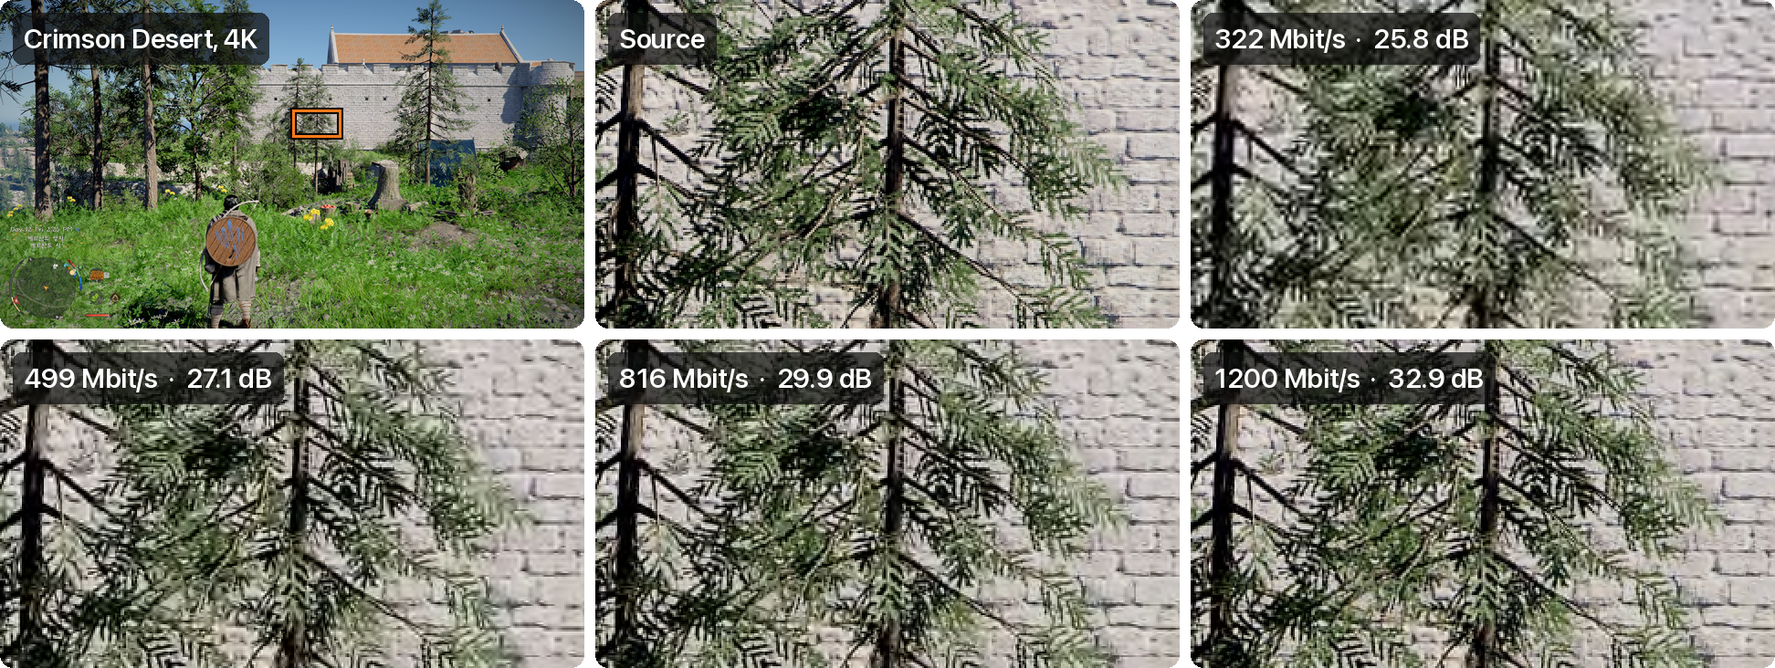
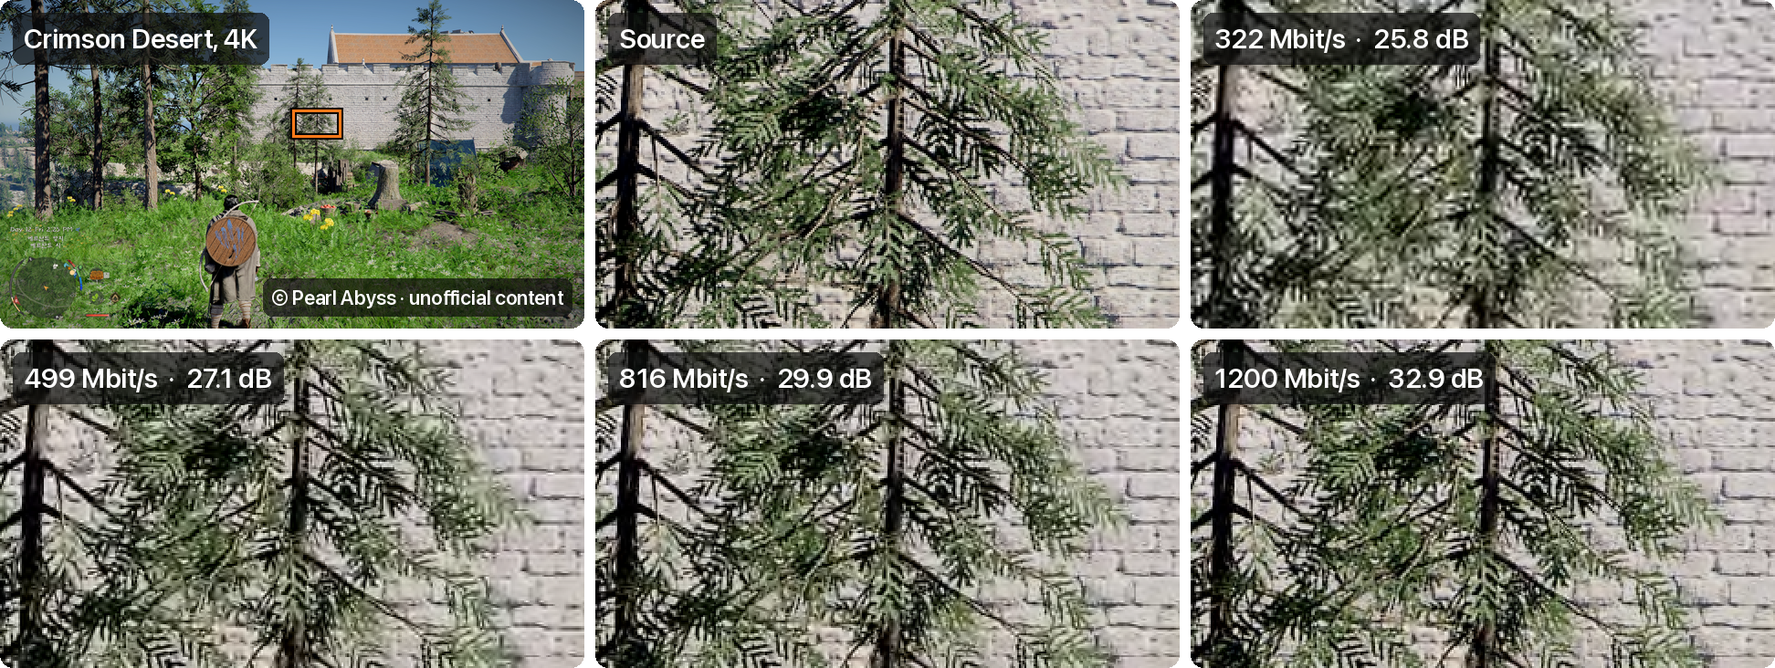
docs: picture quality, from review
The reviewer found no wrong numbers; these make the text as firm as its
data and the script safer to run:

- The HEVC comparison says luma, with the chroma gap beside it, that the
  key frame was encoded outside VideoToolbox's real-time mode, and on
  which Mac, system and day; the README says emberwave's encoder made the
  frames, and words what the panels show more carefully.
- The script encodes on the CPU by default, which makes the same bytes on
  every machine (--gpu for the GPU), takes only 8-bit 4:2:0 and full
  range as the Y4M header says, refuses pictures smaller than its region
  or of an odd size, fits a full picture that is not 16:9, and says in
  --help what it needs. The numbers are unchanged.
- The picture carries its credit in a corner, and LICENSE excludes it.
- D49 states what export-ignore does and does not do: GitHub's source
  archives of releases leave the picture out, but clones, forks and the
  history keep it.
- CONTRIBUTING lists where the quality numbers are copied.

Claude-Session: https://claude.ai/code/session_019fJGoCTvP5e7n599q3ZQ42

Changed region(s): [[0.1235, 0.3907, 0.3395, 0.4809]]

diff --git a/scripts/quality_figure.py b/scripts/quality_figure.py
@@ -3,16 +3,21 @@
 table of BENCHMARKS.md's "Picture quality".
 
     quality_figure.py SOURCE.y4m OUT.png BYTES... [--figure BYTES,...]
-        [--region X,Y] [--title TEXT] [--cli PATH]
+        [--region X,Y] [--title TEXT] [--credit TEXT] [--gpu] [--cli PATH]
 
-SOURCE.y4m holds one 8-bit 4:2:0 picture. emberwave-cli encodes it on the
-GPU within each budget of BYTES and decodes it again, in a temporary
-directory. The table has a row per budget: the frame's size, its bit rate at
-60 frames a second and the PSNR of each plane over the whole picture. The
-picture shows the source in full, then a region of it enlarged twice, from
-the source and from the budgets of --figure (all of them by default), each
-with its bit rate and luma PSNR. The region is the one that loses the most
-at the smallest budget, on a grid of its own size, unless --region gives its
+SOURCE.y4m holds an 8-bit 4:2:0 picture of at least 320x180 with an even
+width and height; only its first picture is used. emberwave-cli encodes it
+within each budget of BYTES, on the CPU, which makes the same bytes on every
+machine, or with --gpu on the GPU, and decodes it again, in a temporary
+directory. Build it first with `cargo build --release -p emberwave-cli`, or
+name another with --cli.
+
+The table has a row per budget: the frame's size, its bit rate at 60 frames
+a second and the PSNR of each plane over the whole picture. The picture
+shows the source in full, then a region of it enlarged twice, from the
+source and from the budgets of --figure (all of them by default), each with
+its bit rate and luma PSNR. The region is the one that loses the most at the
+smallest budget shown, on a grid of its own size, unless --region gives its
 top left corner.
 
 The README's picture is a frame of a game, which the repository does not
@@ -41,6 +46,11 @@ RADIUS = 14
 # The region's outline in the full picture: the banner's orange, on a dark
 # edge that keeps it visible on light parts of the picture.
 BOX = (255, 122, 26)
+# Behind a full picture that is not 16:9.
+MARGIN = (24, 24, 24)
+# The 8-bit 4:2:0 colour spaces of Y4M, as emberwave-cli reads them
+# (crates/emberwave-cli/src/y4m.rs); a header without one means 420jpeg.
+CHROMA_420 = {b"420", b"420jpeg", b"420mpeg2", b"420paldv"}
 # PWV1: a 24-byte file header, then each frame after its size, a
 # little-endian u32 (crates/emberwave-core/src/bitstream/pwv1.rs).
 PWV1_HEADER_BYTES = 24
@@ -52,15 +62,17 @@ FONTS = [
 
 
 def read_y4m(path):
-    """The first picture of an 8-bit 4:2:0 Y4M file: its Y, Cb and Cr planes."""
+    """The first picture of an 8-bit 4:2:0 Y4M file, its Y, Cb and Cr
+    planes, and whether it is in full range rather than video range."""
     with open(path, "rb") as f:
         header = f.readline().split()
         if not header or header[0] != b"YUV4MPEG2":
             sys.exit(f"{path}: not a Y4M file")
-        params = {p[:1]: p[1:] for p in header[1:]}
+        params = {p[:1]: p[1:] for p in header[1:] if not p.startswith(b"X")}
         width, height = int(params[b"W"]), int(params[b"H"])
-        if not params.get(b"C", b"420").startswith(b"420"):
+        if params.get(b"C", b"420jpeg") not in CHROMA_420:
             sys.exit(f"{path}: not 8-bit 4:2:0")
+        full_range = b"XCOLORRANGE=FULL" in header
         if not f.readline().startswith(b"FRAME"):
             sys.exit(f"{path}: no picture")
         cw, ch = (width + 1) // 2, (height + 1) // 2
@@ -70,7 +82,7 @@ def read_y4m(path):
     y = np.frombuffer(data, np.uint8, width * height).reshape(height, width)
     cb = np.frombuffer(data, np.uint8, cw * ch, width * height).reshape(ch, cw)
     cr = np.frombuffer(data, np.uint8, cw * ch, width * height + cw * ch).reshape(ch, cw)
-    return y, cb, cr
+    return (y, cb, cr), full_range
 
 
 def psnr(source, decoded):
@@ -78,36 +90,44 @@ def psnr(source, decoded):
     return float("inf") if error == 0 else 10 * np.log10(255**2 / error)
 
 
-def to_rgb(planes):
-    """The picture in 8-bit RGB: BT.709 in video range, as the streams
-    signal, the chroma upsampled bilinearly."""
+def to_rgb(planes, full_range):
+    """The picture in 8-bit RGB: BT.709, in video range or full range as the
+    source is, the chroma upsampled bilinearly."""
     y, cb, cr = planes
     height, width = y.shape
+    if full_range:
+        luma_scale, luma_offset, chroma_scale = 255, 0, 255
+    else:
+        luma_scale, luma_offset, chroma_scale = 219, 16, 224
 
     def chroma(plane):
         full = Image.fromarray(plane.astype(np.float32)).resize((width, height), Image.BILINEAR)
-        return (np.asarray(full) - 128) / 224
+        return (np.asarray(full) - 128) / chroma_scale
 
-    luma = (y.astype(np.float32) - 16) / 219
+    luma = (y.astype(np.float32) - luma_offset) / luma_scale
     blue, red = chroma(cb), chroma(cr)
     rgb = np.stack([luma + 1.5748 * red, luma - 0.1873 * blue - 0.4681 * red, luma + 1.8556 * blue], -1)
     return Image.fromarray(np.clip(np.round(rgb * 255), 0, 255).astype(np.uint8))
 
 
-def round_trip(cli, source, budget, scratch):
+def round_trip(cli, source, budget, gpu, scratch):
     """Encodes the source within `budget` bytes and decodes it again: the
     frame's size and the decoded planes."""
     stream = scratch / f"{budget}.pwv1"
+    encode = [cli, "encode", source, "--out", stream, "--bytes-per-frame", str(budget), "--frames", "1"]
     for command in (
-        [cli, "encode", source, "--out", stream, "--bytes-per-frame", str(budget), "--frames", "1", "--gpu"],
+        encode + (["--gpu"] if gpu else []),
         [cli, "decode", stream, "--out-dir", scratch, "--format", "y4m"],
     ):
-        done = subprocess.run([str(part) for part in command], capture_output=True, text=True)
+        try:
+            done = subprocess.run([str(part) for part in command], capture_output=True, text=True)
+        except OSError as error:
+            sys.exit(f"cannot run {cli}: {error}; build it with `cargo build --release -p emberwave-cli`")
         if done.returncode != 0:
             sys.exit(f"{' '.join(map(str, command))} failed:\n{done.stdout}{done.stderr}")
     data = stream.read_bytes()
     size = int.from_bytes(data[PWV1_HEADER_BYTES : PWV1_HEADER_BYTES + 4], "little")
-    return size, read_y4m(scratch / f"{budget}.y4m")
+    return size, read_y4m(scratch / f"{budget}.y4m")[0]
 
 
 def worst_region(source, decoded):
@@ -135,49 +155,63 @@ def font(size):
     return ImageFont.load_default(size)
 
 
-def label(panel, text):
-    """The panel, its corners rounded, with `text` on a dark plate in its
-    top left corner."""
-    face = font(30)
+def plate(draw, text, size, corner, panel_size):
+    """`text` on a dark plate, in the panel's top left corner, or its bottom
+    right one for `corner` "br"."""
+    face = font(size)
     ascent, descent = face.getmetrics()
-    plate = Image.new("RGBA", panel.size)
-    draw = ImageDraw.Draw(plate)
-    left, top, pad = 14, 14, 12
-    width = draw.textlength(text, font=face)
-    draw.rounded_rectangle(
-        [left, top, left + width + 2 * pad, top + ascent + descent + 2 * pad - 4], radius=10, fill=(12, 12, 12, 176)
-    )
+    margin, pad = 14, round(size * 0.4)
+    width = draw.textlength(text, font=face) + 2 * pad
+    height = ascent + descent + 2 * pad - 4
+    left, top = margin, margin
+    if corner == "br":
+        left, top = panel_size[0] - margin - width, panel_size[1] - margin - height
+    draw.rounded_rectangle([left, top, left + width, top + height], radius=10, fill=(12, 12, 12, 176))
     draw.text((left + pad, top + pad - 2), text, font=face, fill=(255, 255, 255, 255), anchor="la")
-    panel = Image.alpha_composite(panel.convert("RGBA"), plate)
+
+
+def label(panel, text, credit=None):
+    """The panel, its corners rounded, with `text` in its top left corner
+    and `credit`, if any, smaller, in its bottom right one."""
+    overlay = Image.new("RGBA", panel.size)
+    draw = ImageDraw.Draw(overlay)
+    plate(draw, text, 30, "tl", panel.size)
+    if credit:
+        plate(draw, credit, 22, "br", panel.size)
+    panel = Image.alpha_composite(panel.convert("RGBA"), overlay)
     corners = Image.new("L", panel.size, 0)
     ImageDraw.Draw(corners).rounded_rectangle([0, 0, panel.width - 1, panel.height - 1], radius=RADIUS, fill=255)
     panel.putalpha(corners)
     return panel
 
 
-def figure(source, rows, region, title):
+def figure(source, full_range, rows, region, title, credit):
     """The full picture with the region outlined, then the region from the
     source and from each row's decoded picture."""
     height, width = source[0].shape
     cw, ch = CROP
     pw, ph = cw * ZOOM, ch * ZOOM
     x0, y0 = region
-    original = to_rgb(source)
+    original = to_rgb(source, full_range)
 
-    full = original.resize((pw, ph), Image.LANCZOS)
+    # The full picture, fitted into a panel of the region's shape.
+    scale = min(pw / width, ph / height)
+    tw, th = round(width * scale), round(height * scale)
+    ox, oy = (pw - tw) // 2, (ph - th) // 2
+    full = Image.new("RGB", (pw, ph), MARGIN)
+    full.paste(original.resize((tw, th), Image.LANCZOS), (ox, oy))
     draw = ImageDraw.Draw(full)
-    sx, sy = pw / width, ph / height
-    box = [x0 * sx, y0 * sy, (x0 + cw) * sx, (y0 + ch) * sy]
+    box = [ox + x0 * scale, oy + y0 * scale, ox + (x0 + cw) * scale, oy + (y0 + ch) * scale]
     draw.rectangle([box[0] - 2, box[1] - 2, box[2] + 2, box[3] + 2], outline=(0, 0, 0), width=7)
     draw.rectangle(box, outline=BOX, width=3)
 
     def enlarged(picture):
         return picture.crop((x0, y0, x0 + cw, y0 + ch)).resize((pw, ph), Image.NEAREST)
 
-    panels = [label(full, title), label(enlarged(original), "Source")]
+    panels = [label(full, title, credit), label(enlarged(original), "Source")]
     for size, planes, y_psnr in rows:
         rate = size * 8 * FRAME_RATE / 1e6
-        panels.append(label(enlarged(to_rgb(planes)), f"{rate:.0f} Mbit/s  ·  {y_psnr:.1f} dB"))
+        panels.append(label(enlarged(to_rgb(planes, full_range)), f"{rate:.0f} Mbit/s  ·  {y_psnr:.1f} dB"))
 
     lines = (len(panels) + COLUMNS - 1) // COLUMNS
     sheet = Image.new("RGBA", (COLUMNS * pw + (COLUMNS - 1) * GAP, lines * ph + (lines - 1) * GAP))
@@ -188,27 +222,43 @@ def figure(source, rows, region, title):
 
 def main():
     parser = argparse.ArgumentParser(description=__doc__.split("\n\n")[0])
-    parser.add_argument("source", type=pathlib.Path)
-    parser.add_argument("out", type=pathlib.Path)
-    parser.add_argument("budgets", type=int, nargs="+", metavar="BYTES")
-    parser.add_argument("--figure", help="the budgets in the picture, comma-separated")
-    parser.add_argument("--region", help="the region's top left corner, X,Y")
+    parser.add_argument("source", type=pathlib.Path, help="an 8-bit 4:2:0 Y4M file; its first picture is used")
+    parser.add_argument("out", type=pathlib.Path, help="the PNG file to write")
+    parser.add_argument("budgets", type=int, nargs="+", metavar="BYTES", help="the frame budgets, in bytes")
+    parser.add_argument("--figure", help="the budgets in the picture, comma-separated (default: all)")
+    parser.add_argument("--region", help="the enlarged region's top left corner, X,Y (default: the worst)")
     parser.add_argument("--title", default="Source", help="the full picture's label")
-    parser.add_argument("--cli", type=pathlib.Path, default=ROOT / "target" / "release" / "emberwave-cli")
+    parser.add_argument("--credit", help="a smaller line in the full picture's bottom right corner")
+    parser.add_argument("--gpu", action="store_true", help="encode on the GPU instead of the CPU")
+    parser.add_argument(
+        "--cli",
+        type=pathlib.Path,
+        default=ROOT / "target" / "release" / "emberwave-cli",
+        help="the emberwave-cli to run (default: target/release/emberwave-cli)",
+    )
     args = parser.parse_args()
 
-    source = read_y4m(args.source)
+    source, full_range = read_y4m(args.source)
     height, width = source[0].shape
+    if width < CROP[0] or height < CROP[1] or width % 2 or height % 2:
+        sys.exit(f"{width}x{height}: the picture must be at least {CROP[0]}x{CROP[1]}, with an even width and height")
     shown = [int(b) for b in args.figure.split(",")] if args.figure else args.budgets
     if not set(shown) <= set(args.budgets):
         sys.exit("--figure names a budget that is not given")
+    if args.region:
+        region = tuple(int(v) for v in args.region.split(","))
+        if not (0 <= region[0] <= width - CROP[0] and 0 <= region[1] <= height - CROP[1]):
+            sys.exit(f"--region {args.region} does not fit a {CROP[0]}x{CROP[1]} region in {width}x{height}")
 
     results = {}
     with tempfile.TemporaryDirectory() as scratch:
         for budget in args.budgets:
-            results[budget] = round_trip(args.cli.resolve(), args.source.resolve(), budget, pathlib.Path(scratch))
+            results[budget] = round_trip(
+                args.cli.resolve(), args.source.resolve(), budget, args.gpu, pathlib.Path(scratch)
+            )
 
-    print(f"{width}x{height}, {FRAME_RATE} frames a second\n")
+    encoder = "GPU" if args.gpu else "CPU"
+    print(f"{width}x{height}, the {encoder} encoder, {FRAME_RATE} frames a second\n")
     print("| Budget | Frame | at 60 frames a second | bits per pixel | Y | Cb | Cr |")
     print("|---|---|---|---|---|---|---|")
     for budget, (size, planes) in results.items():
@@ -218,10 +268,10 @@ def main():
             f" | {db[0]:.2f} | {db[1]:.2f} | {db[2]:.2f} |"
         )
 
-    smallest = results[min(shown)][1][0]
-    region = tuple(int(v) for v in args.region.split(",")) if args.region else worst_region(source[0], smallest)
+    if not args.region:
+        region = worst_region(source[0], results[min(shown)][1][0])
     rows = [(results[b][0], results[b][1], psnr(source[0], results[b][1][0])) for b in shown]
-    figure(source, rows, region, args.title).save(args.out, optimize=True)
+    figure(source, full_range, rows, region, args.title, args.credit).save(args.out, optimize=True)
     print(f"\nregion {region[0]},{region[1]}, {CROP[0]}x{CROP[1]}; wrote {args.out}")
 
 

diff --git a/README.md b/README.md
@@ -36,12 +36,12 @@ These times are for frames one after the other. A stream's frames arrive 60 a se
 ## Picture quality
 
 <p align="center">
-  <img alt="A 4K frame of the game Crimson Desert, and a 320 by 180 region of it, a pine before a stone wall, enlarged twice: from the source, and decoded from frames within four budgets, with the bit rate at 60 frames a second and the luma PSNR of the whole frame: 322 Mbit/s, 25.8 dB; 499 Mbit/s, 27.1 dB; 816 Mbit/s, 29.9 dB; 1200 Mbit/s, 32.9 dB." src="docs/images/quality.png" width="100%">
+  <img alt="A 4K frame of the game Crimson Desert, and a 320 by 180 region of it, a pine before a stone wall, enlarged twice: from the source, and decoded from emberwave's frames within four budgets, with the bit rate at 60 frames a second and the luma PSNR of the whole frame: 322 Mbit/s, 25.8 dB; 499 Mbit/s, 27.1 dB; 816 Mbit/s, 29.9 dB; 1200 Mbit/s, 32.9 dB." src="docs/images/quality.png" width="100%">
 </p>
 
-PyroWave buys its speed with bandwidth, and how much it takes depends on the picture. This 4K frame of a game is a hard one, all grass, needles and stone. Each panel gives the bit rate at 60 frames a second and the luma PSNR over the whole frame, and shows the region that loses the most, enlarged twice. At 322 Mbit/s the needles run together and the joints of the wall blur; at 816 Mbit/s they are mostly back, and at 1.2 Gbit/s little is lost. At 322 Mbit/s the benchmarks' synthetic 4K scene keeps 42.7 dB. On this frame, a key frame of Apple's hardware HEVC encoder gets 1.9 to 3.5 dB more out of the same budget, and an HEVC stream needs key frames only at its start and after a loss. PyroWave is for wired networks with bandwidth to spare ([`BENCHMARKS.md`](BENCHMARKS.md#picture-quality)).
+PyroWave buys its speed with bandwidth, and how much it takes depends on the picture. This 4K frame of a game is a hard one, much of it grass, needles and stone. emberwave's encoder made the frames. Each decoded panel gives the bit rate at 60 frames a second and the luma PSNR over the whole frame, and shows the region that loses the most, enlarged twice. At 322 Mbit/s the needles run together and the joints of the wall blur; at 816 Mbit/s they are mostly back, and at 1.2 Gbit/s the region is close to the source. At 322 Mbit/s the first picture of the benchmarks' synthetic 4K scene keeps 42.7 dB. On this frame, a key frame of Apple's hardware HEVC encoder, outside its real-time mode, has 1.9 to 3.5 dB more luma PSNR within the same budget (Apple M3 Max, macOS 27.0.1, 2026-10-27), and an HEVC stream needs key frames only at its start and after a loss. PyroWave is meant for local networks with bandwidth to spare ([`BENCHMARKS.md`](BENCHMARKS.md#picture-quality)).
 
-<sub>The frame is from Crimson Desert, © Pearl Abyss. This is unofficial content: it contains copyrighted material and IP of Pearl Abyss, which neither made nor endorsed it, and it is not covered by this repository's license.</sub>
+<sub>The frame is from Crimson Desert, © Pearl Abyss. This comparison is unofficial content: it contains copyrighted material and IP from Pearl Abyss, and it is not made or endorsed by Pearl Abyss. The picture is not covered by this repository's license.</sub>
 
 ## How it works
 
@@ -180,7 +180,7 @@ Upstream also ships an Apple-only Metal port. emberwave aims at one portable cod
 
 ## License
 
-MIT. See [`LICENSE`](LICENSE), which also carries the PyroWave copyright notice. The frame of Crimson Desert in `docs/images/quality.png` is © Pearl Abyss and not covered by the license, and it is left out of the source archives of releases.
+MIT. See [`LICENSE`](LICENSE), which also carries the PyroWave copyright notice. The frame of Crimson Desert in `docs/images/quality.png` is © Pearl Abyss and not covered by the license; the source archives of releases leave it out.
 
 ## 한국어 요약
 
@@ -189,7 +189,7 @@ emberwave는 Themaister의 PyroWave(LAN 게임 스트리밍용 GPU 웨이블릿 
 - **현재 상태(0.x)**: 비트스트림은 업스트림 것이고, Rust·C API는 마이너 버전 사이에 바뀔 수 있습니다. 비트스트림 파서, GPU 디코더(역양자화, 역 DWT, YUV→RGB), CLI(`emberwave-cli`)가 동작합니다. 원본 인코더가 만든 스트림을 원본 디코더와 PSNR 64 dB 이상(원본 FP32 모드 기준 86 dB 이상)으로 일치하게 디코딩하고, 4K 스트림도 같은 기준을 통과합니다. CI는 Linux(lavapipe), macOS(Metal), Windows(DX12, WARP)에서 테스트를 돌립니다.
 - **빠른 시작**: Rust 1.87 이상과 GPU(없으면 Linux는 Mesa lavapipe, Windows는 내장 WARP)가 있으면 위 Quick start의 네 줄로 PNG를 얻습니다. 처음 빌드는 몇 분 걸립니다.
 - **성능**: Apple M3 Max(Metal)에서 4K 한 프레임을 약 0.9 ms(RGB 변환 포함 1.2 ms)에 디코딩하며, 같은 기계에서 원본 Metal 디코더(FP32)의 1.0~1.25배입니다(측정 회차마다 다름). 디코딩한 그림을 CPU로 읽어 오면 4K RGB가 약 2.2 ms입니다(전에는 7.5 ms). 측정 환경과 전체 수치는 위 Performance 표와 [`BENCHMARKS.md`](BENCHMARKS.md)에 있습니다.
-- **화질**: 필요한 대역폭은 그림에 따라 다릅니다. 풀·솔잎·돌벽으로 가득해 압축하기 어려운 붉은사막 4K 프레임을 초당 60프레임으로 보내면, 322 Mbit/s에서는 솔잎이 뭉개지고(프레임 전체의 luma PSNR 25.8 dB), 816 Mbit/s에서는 대부분 살아나며(29.9 dB), 1.2 Gbit/s에서는 잃는 것이 거의 없습니다(32.9 dB). 벤치마크의 합성 4K 장면은 322 Mbit/s에서도 42.7 dB입니다. 같은 프레임을 Apple 하드웨어 HEVC 인코더가 같은 예산 안의 키프레임으로 압축하면 1.9~3.5 dB 높습니다. PyroWave는 대역폭이 넉넉한 유선 네트워크용입니다([`BENCHMARKS.md`](BENCHMARKS.md#picture-quality)).
+- **화질**: 필요한 대역폭은 그림에 따라 다릅니다. 풀·솔잎·돌벽이 많아 압축하기 어려운 붉은사막 4K 프레임을 emberwave 인코더로 초당 60프레임 기준 322 Mbit/s에 맞추면 솔잎이 뭉개지고(프레임 전체의 luma PSNR 25.8 dB), 816 Mbit/s에서는 대부분 살아나며(29.9 dB), 1.2 Gbit/s에서는 원본에 가깝습니다(32.9 dB). 벤치마크의 합성 4K 장면 첫 프레임은 322 Mbit/s에서도 42.7 dB입니다. 같은 프레임을 Apple 하드웨어 HEVC 인코더가 실시간 모드가 아닌 키프레임으로 같은 예산 안에 압축하면 luma PSNR이 1.9~3.5 dB 높습니다(Apple M3 Max, macOS 27.0.1, 2026-10-27). PyroWave는 대역폭이 넉넉한 로컬 네트워크용입니다([`BENCHMARKS.md`](BENCHMARKS.md#picture-quality)).
 - **릴리스**: v0.1.0이 첫 릴리스, v0.2.0이 속도 개선, v0.3.0이 브라우저 플레이어와 C API, v0.4.0이 인코더(CPU와 GPU), v0.5.0이 GPU 인코더 가속(4K 약 1.9 ms로 업스트림보다 빠름)과 기기 손실·Vulkan 로더 관련 수정, v0.6.0이 C API 인코더와 GPU 텍스처 입력 인코딩, v0.7.0이 iPhone·iPad·Mac 앱용 XCFramework, 휴대폰도 되는 브라우저 벤치마크, 디코딩 CPU 시간 단축, v0.8.0이 디코딩한 그림의 CPU 읽기 3배 가속(C API 4K RGB 7.6→2.7 ms), 텍스처 입력 인코딩 가속, 브라우저 페이지 리뷰 수정, v0.9.0이 Metal 클라이언트용 GPU 텍스처 출력(C API, M3 Max 4K 1.5 ms)과 iPhone·iPad 벤치마크 앱, v0.10.0이 Y·Cb·Cr 평면 텍스처(4K 1.0 ms), 복사로 채우는 RGB 텍스처(4K 1.5→1.3 ms), 앱의 Metal 큐에서 대기 없는 디코딩, v0.11.0이 앱 자신의 Metal 텍스처(CVPixelBuffer 등)로 디코딩과 모든 텍스처 경로를 재는 벤치마크 앱 릴리스입니다. Linux(x86_64), macOS(Apple Silicon), Windows(x86_64)용 `emberwave-cli`와 C 라이브러리(`emberwave-ffi`), iOS·macOS 앱용 `Emberwave.xcframework`를 [releases](https://github.com/with-developer/emberwave/releases)에서 받을 수 있습니다. 4K 1000프레임을 반복 디코딩해도 GPU 자원과 프로세스 메모리가 늘지 않는 것을 확인했습니다.
 - **브라우저 플레이어**: [with-developer.github.io/emberwave](https://with-developer.github.io/emberwave/)에서 `.pwv1` 파일을 열면 WebGPU로 페이지 안에서 디코딩해 재생합니다. 파일 없이 열면 페이지가 직접 그리고 인코딩한 960x540 데모 스트림을 바로 재생합니다. 파일은 어디에도 올라가지 않습니다. [벤치마크 페이지](https://with-developer.github.io/emberwave/bench.html)는 그 기기(휴대폰 포함)에서 1080p·1440p·4K 디코딩 시간을 재고 복사할 수 있는 결과를 보여 줍니다. iPhone 17(Safari)에서는 1080p 한 프레임에 2.4 ms, 4K에 8.1 ms입니다.
 - **C API**: `crates/emberwave-ffi`가 C에서 쓰는 헤더(`emberwave.h`)와 공유·정적 라이브러리를 제공합니다. 네트워크로 받은 패킷을 넣고 YUV 평면이나 RGB를 호출자 메모리로 받습니다. 인코더도 있어서(#42), 호스트는 stride가 있는 평면을 바이트 예산 안의 프레임으로 인코딩하고 패킷으로 나눕니다. 릴리스마다 3개 OS용으로 빌드해 올리고, C 예제가 CI에서 모든 테스트 벡터를 디코딩하고 인코더 소스 둘을 인코딩해 다시 디코딩합니다. iPhone·iPad·Mac 앱용으로는 정적 라이브러리를 `Emberwave.xcframework`로 묶어 릴리스에 함께 올립니다(#52). Swift에서는 `import Emberwave`로 쓰고, Swift 예제(`examples/swift`)와 iPhone·iPad용 벤치마크 앱(`examples/ios`, Xcode 프로젝트)이 있습니다. CI가 C·Swift 예제를 iOS 시뮬레이터와 Mac에서, 앱을 iOS 시뮬레이터에서 돌려 검증합니다. iPhone 17 실기기에서도 앱의 Metal 검사 3개가 통과했고, 1080p 한 프레임을 Metal 텍스처로 1.6 ms, Y·Cb·Cr 텍스처로 1.3 ms, 4K는 6.2~6.3 ms와 4.8 ms에 디코딩합니다. 같은 폰의 Safari보다 22~31% 빠릅니다. 앱은 같은 기기의 하드웨어 HEVC(VideoToolbox, Moonlight가 쓰는 경로)도 함께 잽니다. M3 Max에서 프레임을 연달아 디코딩하면 emberwave가 HEVC보다 2.2~3.9배 빠릅니다(4K 1.0 ms 대 2.6~3.4 ms). 하지만 초당 60프레임 간격으로 받으면 프레임 사이에 쉬는 GPU는 느려지고 미디어 엔진은 그렇지 않아서, 둘이 비슷해집니다. iPhone 17에서는 연달아 디코딩하면 emberwave가 1.4~1.7배 빠르지만(하루 뒤 측정에서 4K 4.5 ms 대 HEVC 6.2~6.3 ms), 초당 60프레임 간격에서는 HEVC가 1.5~2.7배 빠릅니다.

diff --git a/BENCHMARKS.md b/BENCHMARKS.md
@@ -11,7 +11,7 @@ scripts/bench.sh                    # measures, then rewrites the results below 
 scripts/bench_lavapipe.sh           # optional: software Vulkan in a Linux container (needs Docker)
 ```
 
-`bench.sh` keeps the raw results in `target/bench/` as JSON; `scripts/bench_report.py write target/bench BENCHMARKS.md README.md` turns them into the tables again. Quit other programs first, keep a laptop on mains power, and run it twice: the two runs should agree within a few per cent. The README's charts show some of the numbers on this page: `scripts/readme_figures.py` draws them, from numbers copied into it. `scripts/quality_figure.py` makes the table of [Picture quality](#picture-quality) and the README's picture of it, from a picture of your own; it needs numpy and Pillow.
+`bench.sh` keeps the raw results in `target/bench/` as JSON; `scripts/bench_report.py write target/bench BENCHMARKS.md README.md` turns them into the tables again. Quit other programs first, keep a laptop on mains power, and run it twice: the two runs should agree within a few per cent. The README's charts show some of the numbers on this page: `scripts/readme_figures.py` draws them, from numbers copied into it. `scripts/quality_figure.py` makes the first table of [Picture quality](#picture-quality) and the README's picture of it, from a picture of your own; it needs numpy, Pillow and a release build of `emberwave-cli`.
 
 ## What is measured
 
@@ -300,7 +300,7 @@ The two runs' means differed by 4 % or less, except in five rows. HEVC's encodin
 
 ## Picture quality
 
-What a frame's budget buys, on a hard picture: a 4K frame of the game Crimson Desert, grass, pines and a stone wall in daylight, from a screenshot taken in the game, a 3840x2160 PNG. It was converted to 8-bit 4:2:0 in BT.709's video range, each chroma sample the mean of its four pixels. On 2026-10-27, and again on 2026-10-29 with the same results, on the Apple M3 Max of the tables above, `emberwave-cli encode --gpu` encoded it within five budgets and `emberwave-cli decode` decoded it again, built from the code of release 0.11.0. PSNR is per plane, over the whole picture, against the 4:2:0 picture that the encoder took. `scripts/quality_figure.py` does all this from the 4:2:0 picture, prints this table and draws the README's picture, which enlarges the region that loses the most at the smallest budget. The frame itself is not in the repository (decision D49).
+What a frame's budget buys, on a hard picture: a 4K frame of the game Crimson Desert, grass, pines and a stone wall in daylight, from a screenshot taken in the game, a 3840x2160 PNG. It was converted to 8-bit 4:2:0 in BT.709's video range, each chroma sample the mean of its four pixels. On 2026-10-29, on the Apple M3 Max of the tables above, `emberwave-cli encode` encoded it within five budgets on the CPU, which makes the same bytes on every machine, and `emberwave-cli decode` decoded it again, built from the code of release 0.11.0. The GPU encoder (`--gpu`), on 2026-10-27 and 2026-10-29, gave the same sizes and the same PSNR to two decimals. PSNR is per plane, over the whole picture, against the 4:2:0 picture that the encoder took. `scripts/quality_figure.py` does all this from the 4:2:0 picture, prints this table and draws the README's picture, which enlarges the region that loses the most at the smallest budget. The frame itself is not in the repository (decision D49).
 
 | Budget | Frame | at 60 frames a second | bits per pixel | PSNR Y | Cb | Cr |
 |---|---|---|---|---|---|---|
@@ -310,8 +310,8 @@ What a frame's budget buys, on a hard picture: a 4K frame of the game Crimson De
 | 2.5 MB | 2,499,912 bytes | 1200 Mbit/s | 2.41 | 32.87 | 36.77 | 37.13 |
 | 4 MB | 3,999,996 bytes | 1920 Mbit/s | 3.86 | 35.71 | 42.71 | 42.54 |
 
-- **The picture decides.** Within 670 kB the synthetic 4K scene of the encoder benchmarks keeps 42.69 dB of luma: its colour bars, gradient and disc cost little, where grass and needles cost a lot.
-- **Next to HEVC.** On the same Mac, Apple's hardware HEVC encoder, through VideoToolbox, encoded the same picture as a single key frame, Main profile, at the highest quality setting whose frame fits each budget with its parameter sets, and VideoToolbox decoded it again. With 2 to 10 % fewer bytes than emberwave's frame, the key frame has 1.9 to 3.5 dB more luma PSNR. In a stream, HEVC also predicts frames from the ones before, which a single picture does not show, and needs a key frame only at the start and after a loss, where every PyroWave frame stands alone.
+- **The picture decides.** Within 670 kB, the first picture of the synthetic 4K scene that the encoder benchmarks use, colour bars, a gradient, a shaded disc, a fine grid and a little film grain, keeps 42.69 dB of luma, where the game's frame keeps 25.77 dB.
+- **Next to HEVC.** On 2026-10-27, on the same Mac with macOS 27.0.1, Apple's hardware HEVC encoder, through VideoToolbox and outside its real-time mode, encoded the same picture as a single key frame, Main profile, at the highest quality setting whose frame fits each budget with its parameter sets, and VideoToolbox decoded it again; the PSNR was computed again on 2026-10-29. With 2 to 10 % fewer bytes than emberwave's frame, the key frame has 1.9 to 3.5 dB more luma PSNR and 0.7 to 1.9 dB more chroma PSNR. A streaming host runs its encoder in real-time mode, which may cost quality; this was not measured. In a stream, HEVC also predicts frames from the ones before, which a single picture does not show, and needs a key frame only at the start and after a loss, where every PyroWave frame stands alone.
 
 | Budget | HEVC key frame | at 60 frames a second | PSNR Y | Cb | Cr | emberwave's Y |
 |---|---|---|---|---|---|---|
@@ -320,4 +320,4 @@ What a frame's budget buys, on a hard picture: a 4K frame of the game Crimson De
 | 1.7 MB | 1,667,267 bytes | 800 Mbit/s | 33.43 | 35.78 | 35.83 | 29.94 |
 | 2.5 MB | 2,319,594 bytes | 1113 Mbit/s | 36.34 | 37.87 | 37.85 | 32.87 |
 
-- **How firm the numbers are.** One picture, and PSNR, which follows what the eye sees only roughly. The GPU encoder's frames are the CPU encoder's, or differ in a few blocks at the same PSNR. The HEVC encoder was driven by a scratch program that was not kept, macOS 27.0.1.
+- **How firm the numbers are.** One picture, and PSNR, which follows what the eye sees only roughly. The HEVC numbers come from a scratch program that was not kept.

diff --git a/CONTRIBUTING.md b/CONTRIBUTING.md
@@ -44,7 +44,7 @@ On Linux with a Vulkan loader from 1.3.284 to 1.4.344 (Debian 13, Ubuntu 25.04 t
 
 After a deliberate change to what the encoder writes, `scripts/gen_encoder_vectors.sh` makes its vectors again (macOS), and `scripts/gen_encoder_weights.py` writes its weight table, which is generated rather than written by hand. After a change to the C API, `EMBERWAVE_BLESS=1 cargo test -p emberwave-ffi --test header` writes `crates/emberwave-ffi/include/emberwave.h` anew; commit it with the change. `scripts/check_c_example.sh` needs CMake and a C compiler, and `cargo build -p emberwave-ffi -p emberwave-cli` first. `scripts/build_xcframework.sh` builds the XCFramework for iOS and macOS on a Mac with Xcode, after `rustup target add aarch64-apple-ios aarch64-apple-ios-sim`; `scripts/build_xcframework.sh macos-arm64` builds the Mac's library alone, which needs no extra target. `scripts/check_xcframework.sh target/debug/emberwave-cli` then checks what was built, the iOS Simulator's library in a simulator, which needs an iOS Simulator runtime (Xcode > Settings > Components).
 
-`scripts/build_web.sh` builds the browser player into `web/` (it needs `rustup target add wasm32-unknown-unknown` and `cargo install wasm-bindgen-cli` at the version of the `wasm-bindgen` crate in `Cargo.lock`), and `node scripts/check_web.mjs` then checks that the module instantiates, as CI does; serve `web/` with any static file server, for example `python3 -m http.server -d web 8000`, and open it in a browser with WebGPU. `scripts/verify_4k.sh` is the 4K acceptance check, and [`BENCHMARKS.md`](BENCHMARKS.md) explains the benchmark scripts. Two leak checks run on request, both on the 4K stream of `scripts/gen_bench_data.sh`: `cargo test --release -p emberwave-core --test gpu -- --ignored` counts the GPU resources over 1000 frames, and `scripts/soak.sh` watches the memory of `emberwave-cli` over as many. `scripts/readme_figures.py` draws the README's banner and charts into `docs/images/`, and CI checks that the files are what it draws. Their numbers are copied from `BENCHMARKS.md`, as are those of the README's highlights and of the figures' alt texts: when a benchmark run changes them, change them in all three places and run the script again. `scripts/quality_figure.py` makes the README's picture of the quality, `docs/images/quality.png`, and the numbers of [`BENCHMARKS.md`](BENCHMARKS.md#picture-quality), by hand: it needs the frame, which the repository does not have, and numpy and Pillow.
+`scripts/build_web.sh` builds the browser player into `web/` (it needs `rustup target add wasm32-unknown-unknown` and `cargo install wasm-bindgen-cli` at the version of the `wasm-bindgen` crate in `Cargo.lock`), and `node scripts/check_web.mjs` then checks that the module instantiates, as CI does; serve `web/` with any static file server, for example `python3 -m http.server -d web 8000`, and open it in a browser with WebGPU. `scripts/verify_4k.sh` is the 4K acceptance check, and [`BENCHMARKS.md`](BENCHMARKS.md) explains the benchmark scripts. Two leak checks run on request, both on the 4K stream of `scripts/gen_bench_data.sh`: `cargo test --release -p emberwave-core --test gpu -- --ignored` counts the GPU resources over 1000 frames, and `scripts/soak.sh` watches the memory of `emberwave-cli` over as many. `scripts/readme_figures.py` draws the README's banner and charts into `docs/images/`, and CI checks that the files are what it draws. Their numbers are copied from `BENCHMARKS.md`, as are those of the README's highlights and of the figures' alt texts: when a benchmark run changes them, change them in all three places and run the script again. `scripts/quality_figure.py` makes the README's picture of the quality, `docs/images/quality.png`, and the first table of [Picture quality](BENCHMARKS.md#picture-quality), by hand: it needs the frame, which the repository does not have, numpy, Pillow and a release build of `emberwave-cli`. The HEVC table there comes from a scratch program that was not kept. The quality numbers are also copied into the README's paragraph, alt text and Korean summary and into decision D49: change them together.
 
 ## Test vectors and acceptance bars
 

diff --git a/ARCHITECTURE.md b/ARCHITECTURE.md
@@ -1305,8 +1305,9 @@ The figures of the prototype's runs above are marked as not kept.
 **Context.** The README showed how fast emberwave decodes and encodes, but not what a frame looks like within a budget, and `BENCHMARKS.md` listed the quality as not covered (#97). The benchmarks' synthetic scenes flatter the codec: within 670 kB, their 4K scene keeps 42.7 dB of luma PSNR, and a 4K frame of a game 25.8 dB. A game's frame shows what a stream would look like, but its pictures are the publisher's.
 
 **Decision.**
-- The README shows a frame of Crimson Desert within four budgets (`docs/images/quality.png`), from a screenshot taken in the game. Pearl Abyss's [fan content guidelines](https://crimsondesert.pearlabyss.com/en-US/Policy?_policyNo=130) allow in-game screenshots in non-commercial content that says it is unofficial, and ask that their material stay out of other products. The README says under the picture that it is unofficial, the picture is not under the MIT license, and `.gitattributes` keeps it out of the source archives of releases, so that no release carries it.
-- `scripts/quality_figure.py`, which makes the picture and its numbers from any 4:2:0 picture, is in the repository; the frame is not.
-- Should Pearl Abyss object, the picture goes and the numbers stay.
+- The README shows a frame of Crimson Desert within four budgets (`docs/images/quality.png`), from a screenshot taken in the game. Pearl Abyss's [fan content guidelines](https://crimsondesert.pearlabyss.com/en-US/Policy?_policyNo=130) (dated 2021-03-26, read on 2026-10-29) allow in-game screenshots in non-commercial content that says it is unofficial, and ask that their material stay out of other products. Pearl Abyss's Terms of Service, which the guidelines defer to for what they do not cover, were not reviewed.
+- The README under the picture and the picture in its corner say that it is unofficial. `LICENSE` and the README exclude it from the MIT license. `.gitattributes` leaves it out of the source archives that GitHub makes of releases; the release packages never held `docs/`. Clones, forks and the history still hold it.
+- `scripts/quality_figure.py`, which makes the picture and its numbers from an 8-bit 4:2:0 picture of at least 320x180, is in the repository; the frame is not.
+- Should Pearl Abyss object, the picture leaves the README and the tree, and the numbers stay; the history keeps it unless it is rewritten.
 
 **Consequence.** The quality's numbers come from one picture and a script run by hand, not from CI, and HEVC's are those of a key frame alone.
